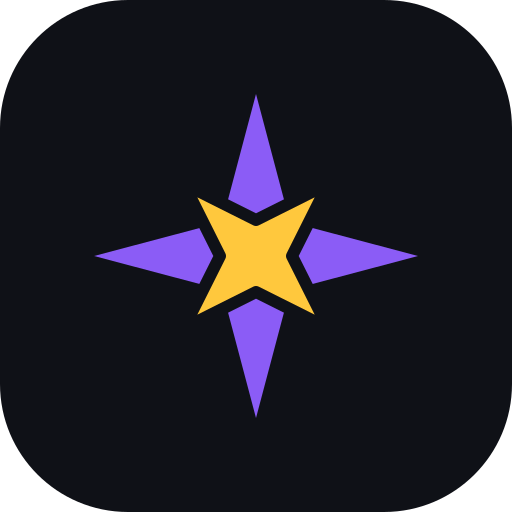
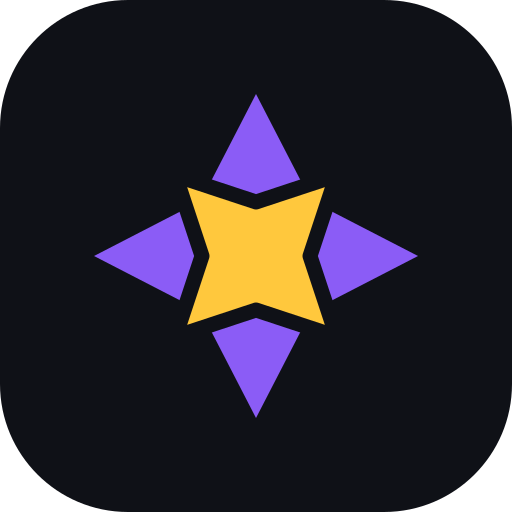
메인 로고 마크 두께와 헤더 아이콘 크기 조정

Changed region(s): [[0.1875, 0.1875, 0.8125, 0.8125]]

diff --git a/src/components/shell/AppShell.tsx b/src/components/shell/AppShell.tsx
@@ -11,7 +11,7 @@ export function AppShell({ locale, children }: { locale: string; children: React
         <div className="flex items-center gap-6">
           <span className="flex items-center gap-1.5">
             {/* eslint-disable-next-line @next/next/no-img-element */}
-            <img src="/icons/logo-main.svg" alt="" aria-hidden className="h-5 w-5" />
+            <img src="/icons/logo-main.svg" alt="" aria-hidden className="h-6 w-6" />
             <span className="text-[15px] font-extrabold tracking-tight">Brawl Companion</span>
           </span>
           <NavTabs locale={locale} className="hidden md:flex" />
